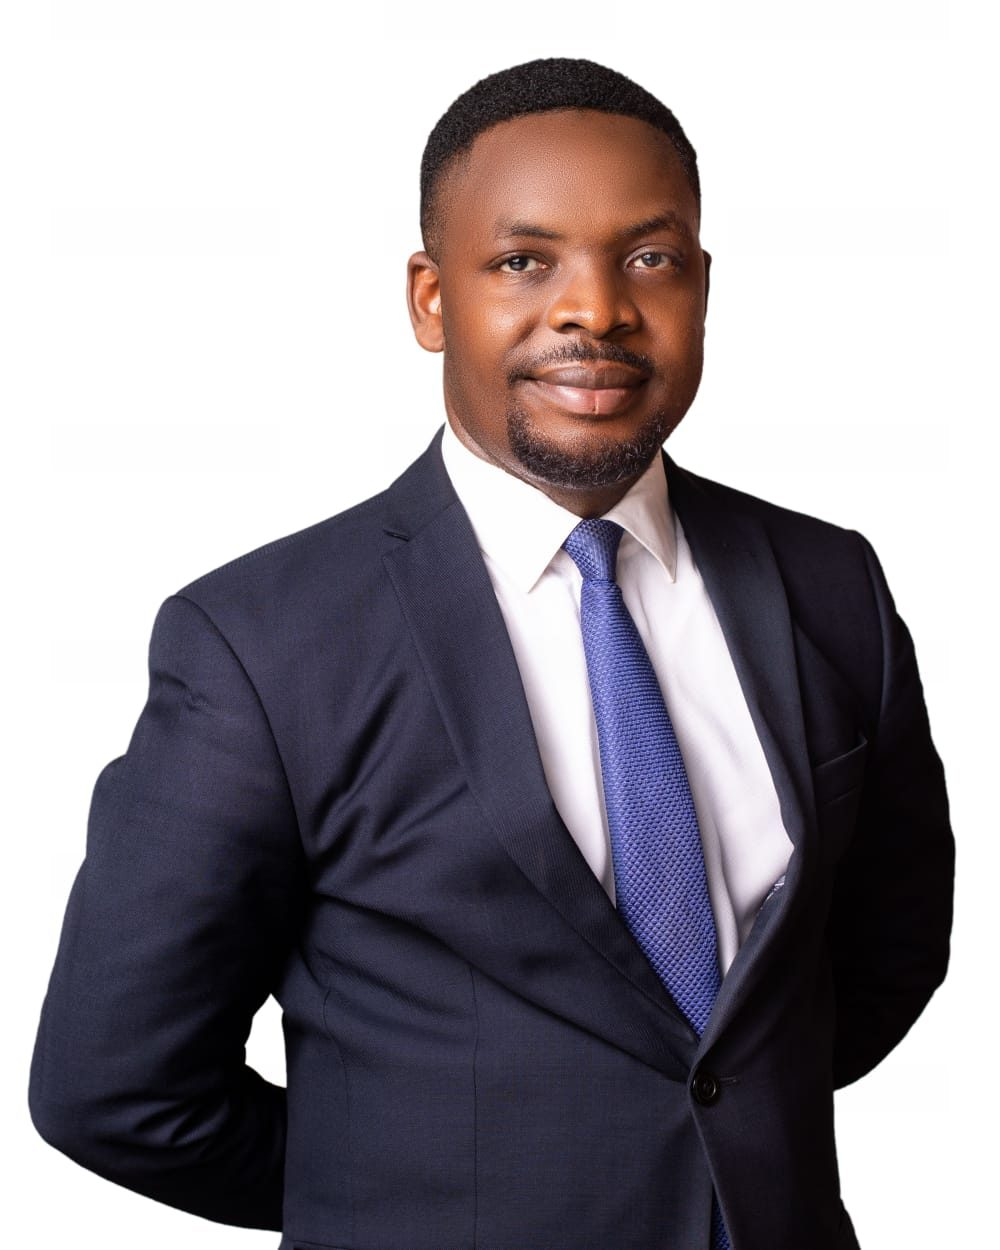
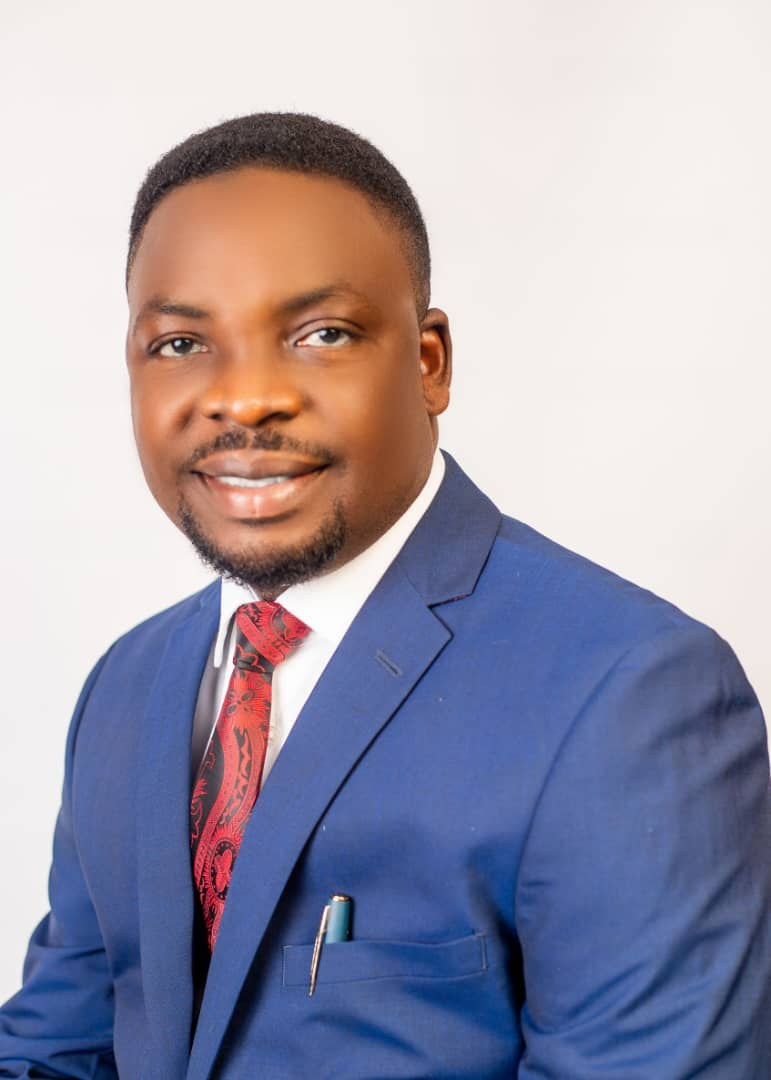
Replace portraits with the principal's original studio photos
Claude-Session: https://claude.ai/code/session_01N4PVo7mfw6SWrAemhbLea9

diff --git a/index.html b/index.html
@@ -7,7 +7,7 @@
 <meta name="description" content="Kelvin Iorzenda & Associates (KIA) is a full-service law firm in Makurdi, Benue State, Nigeria: litigation, representation before the EFCC, DSS and Police, fundamental rights, digital rights and data protection, commercial, land and notarial services. Book a consultation online.">
 <meta property="og:title" content="Kelvin Iorzenda &amp; Associates — Legal Practitioners &amp; Notaries Public">
 <meta property="og:description" content="A modern full-service law firm in Makurdi, serving local and international clients. Book a consultation.">
-<meta property="og:image" content="assets/img/hero-portrait.jpg">
+<meta property="og:image" content="assets/img/headshot.jpg">
 <meta name="theme-color" content="#1C2340">
 <link rel="icon" type="image/png" href="assets/img/favicon.png">
 <link rel="preconnect" href="https://fonts.googleapis.com">
@@ -128,7 +128,7 @@ section.band{padding:104px 0}
 /* ---------- about ---------- */
 .about{display:grid; grid-template-columns:.95fr 1.05fr; gap:72px; align-items:center}
 .about-media{position:relative}
-.about-media img{width:100%; aspect-ratio:4/5; object-fit:cover}
+.about-media img{width:100%; aspect-ratio:4/5; object-fit:cover; object-position:50% 15%}
 .about-media::before{content:""; position:absolute; inset:-18px 18px 18px -18px; border:1px solid var(--gold); z-index:-1}
 .about h2{font-size:clamp(34px,4.2vw,50px); color:var(--navy); margin-bottom:22px}
 .about p{margin:0 0 16px; color:#33384A}
@@ -423,7 +423,7 @@ footer p{margin:0 0 12px; max-width:44ch}
     </div>
     <div class="hero-figure">
       <div class="frame"></div>
-      <img src="assets/img/hero-portrait.jpg" alt="Kumater Kelvin Iorzenda, Esq., Principal Partner" width="1000" height="1250" fetchpriority="high">
+      <img src="assets/img/hero-portrait.jpg" alt="Kumater Kelvin Iorzenda, Esq., Principal Partner" width="771" height="1080" fetchpriority="high">
       <div class="hero-badge">
         <b>Kelvin Iorzenda, Esq.</b>
         <span>(Notary Public)<br>Principal Partner</span>
@@ -447,7 +447,7 @@ footer p{margin:0 0 12px; max-width:44ch}
   <div class="wrap">
     <div class="about">
       <div class="about-media rv">
-        <img src="assets/img/wig-gown.jpg" alt="Kelvin Iorzenda, Esq. in wig and gown" loading="lazy" width="720" height="900">
+        <img src="assets/img/wig-gown.jpg" alt="Kelvin Iorzenda, Esq. in wig and gown" loading="lazy" width="720" height="1080">
       </div>
       <div class="rv">
         <p class="eyebrow">About the Firm</p>
@@ -562,7 +562,7 @@ footer p{margin:0 0 12px; max-width:44ch}
     </div>
     <div class="principal">
       <aside class="p-card rv">
-        <img src="assets/img/standing.jpg" alt="Kumater Kelvin Iorzenda, Esq." loading="lazy" width="720" height="1062">
+        <img src="assets/img/standing.jpg" alt="Kumater Kelvin Iorzenda, Esq." loading="lazy" width="665" height="932">
         <div class="meta">
           <b>Kumater Kelvin Iorzenda, Esq.</b>
           <span>(Notary Public) · Principal Partner</span>
